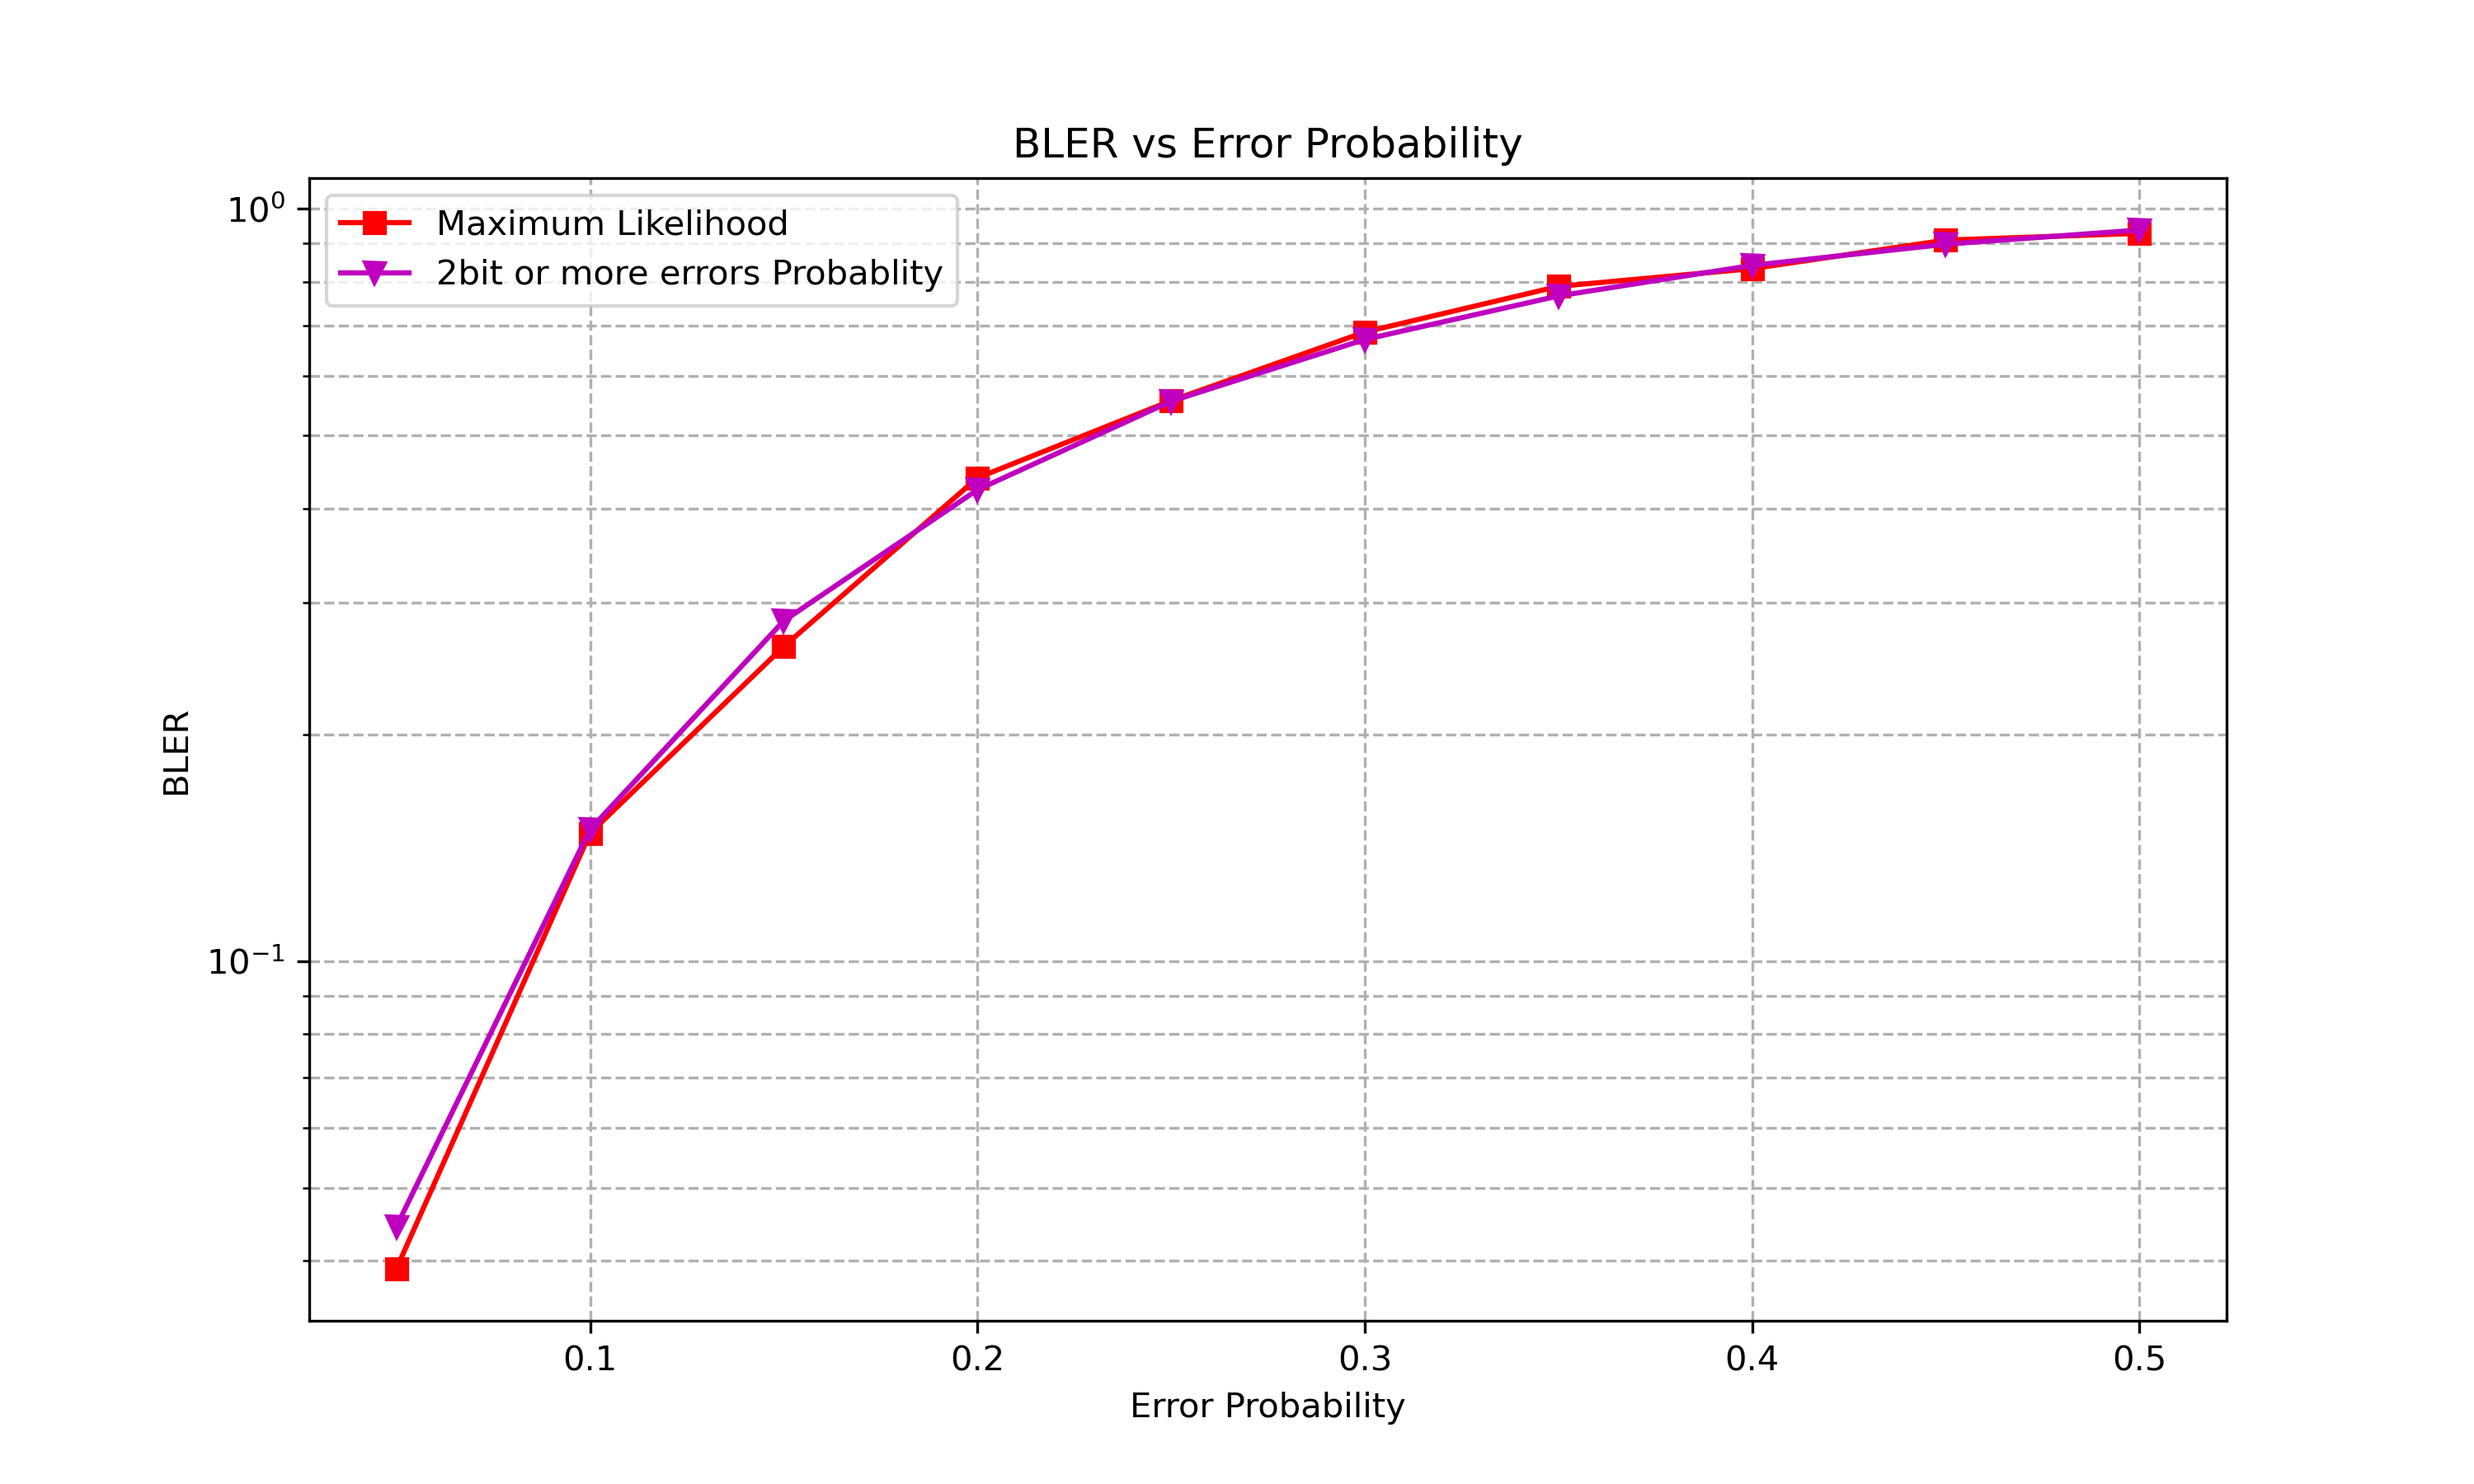
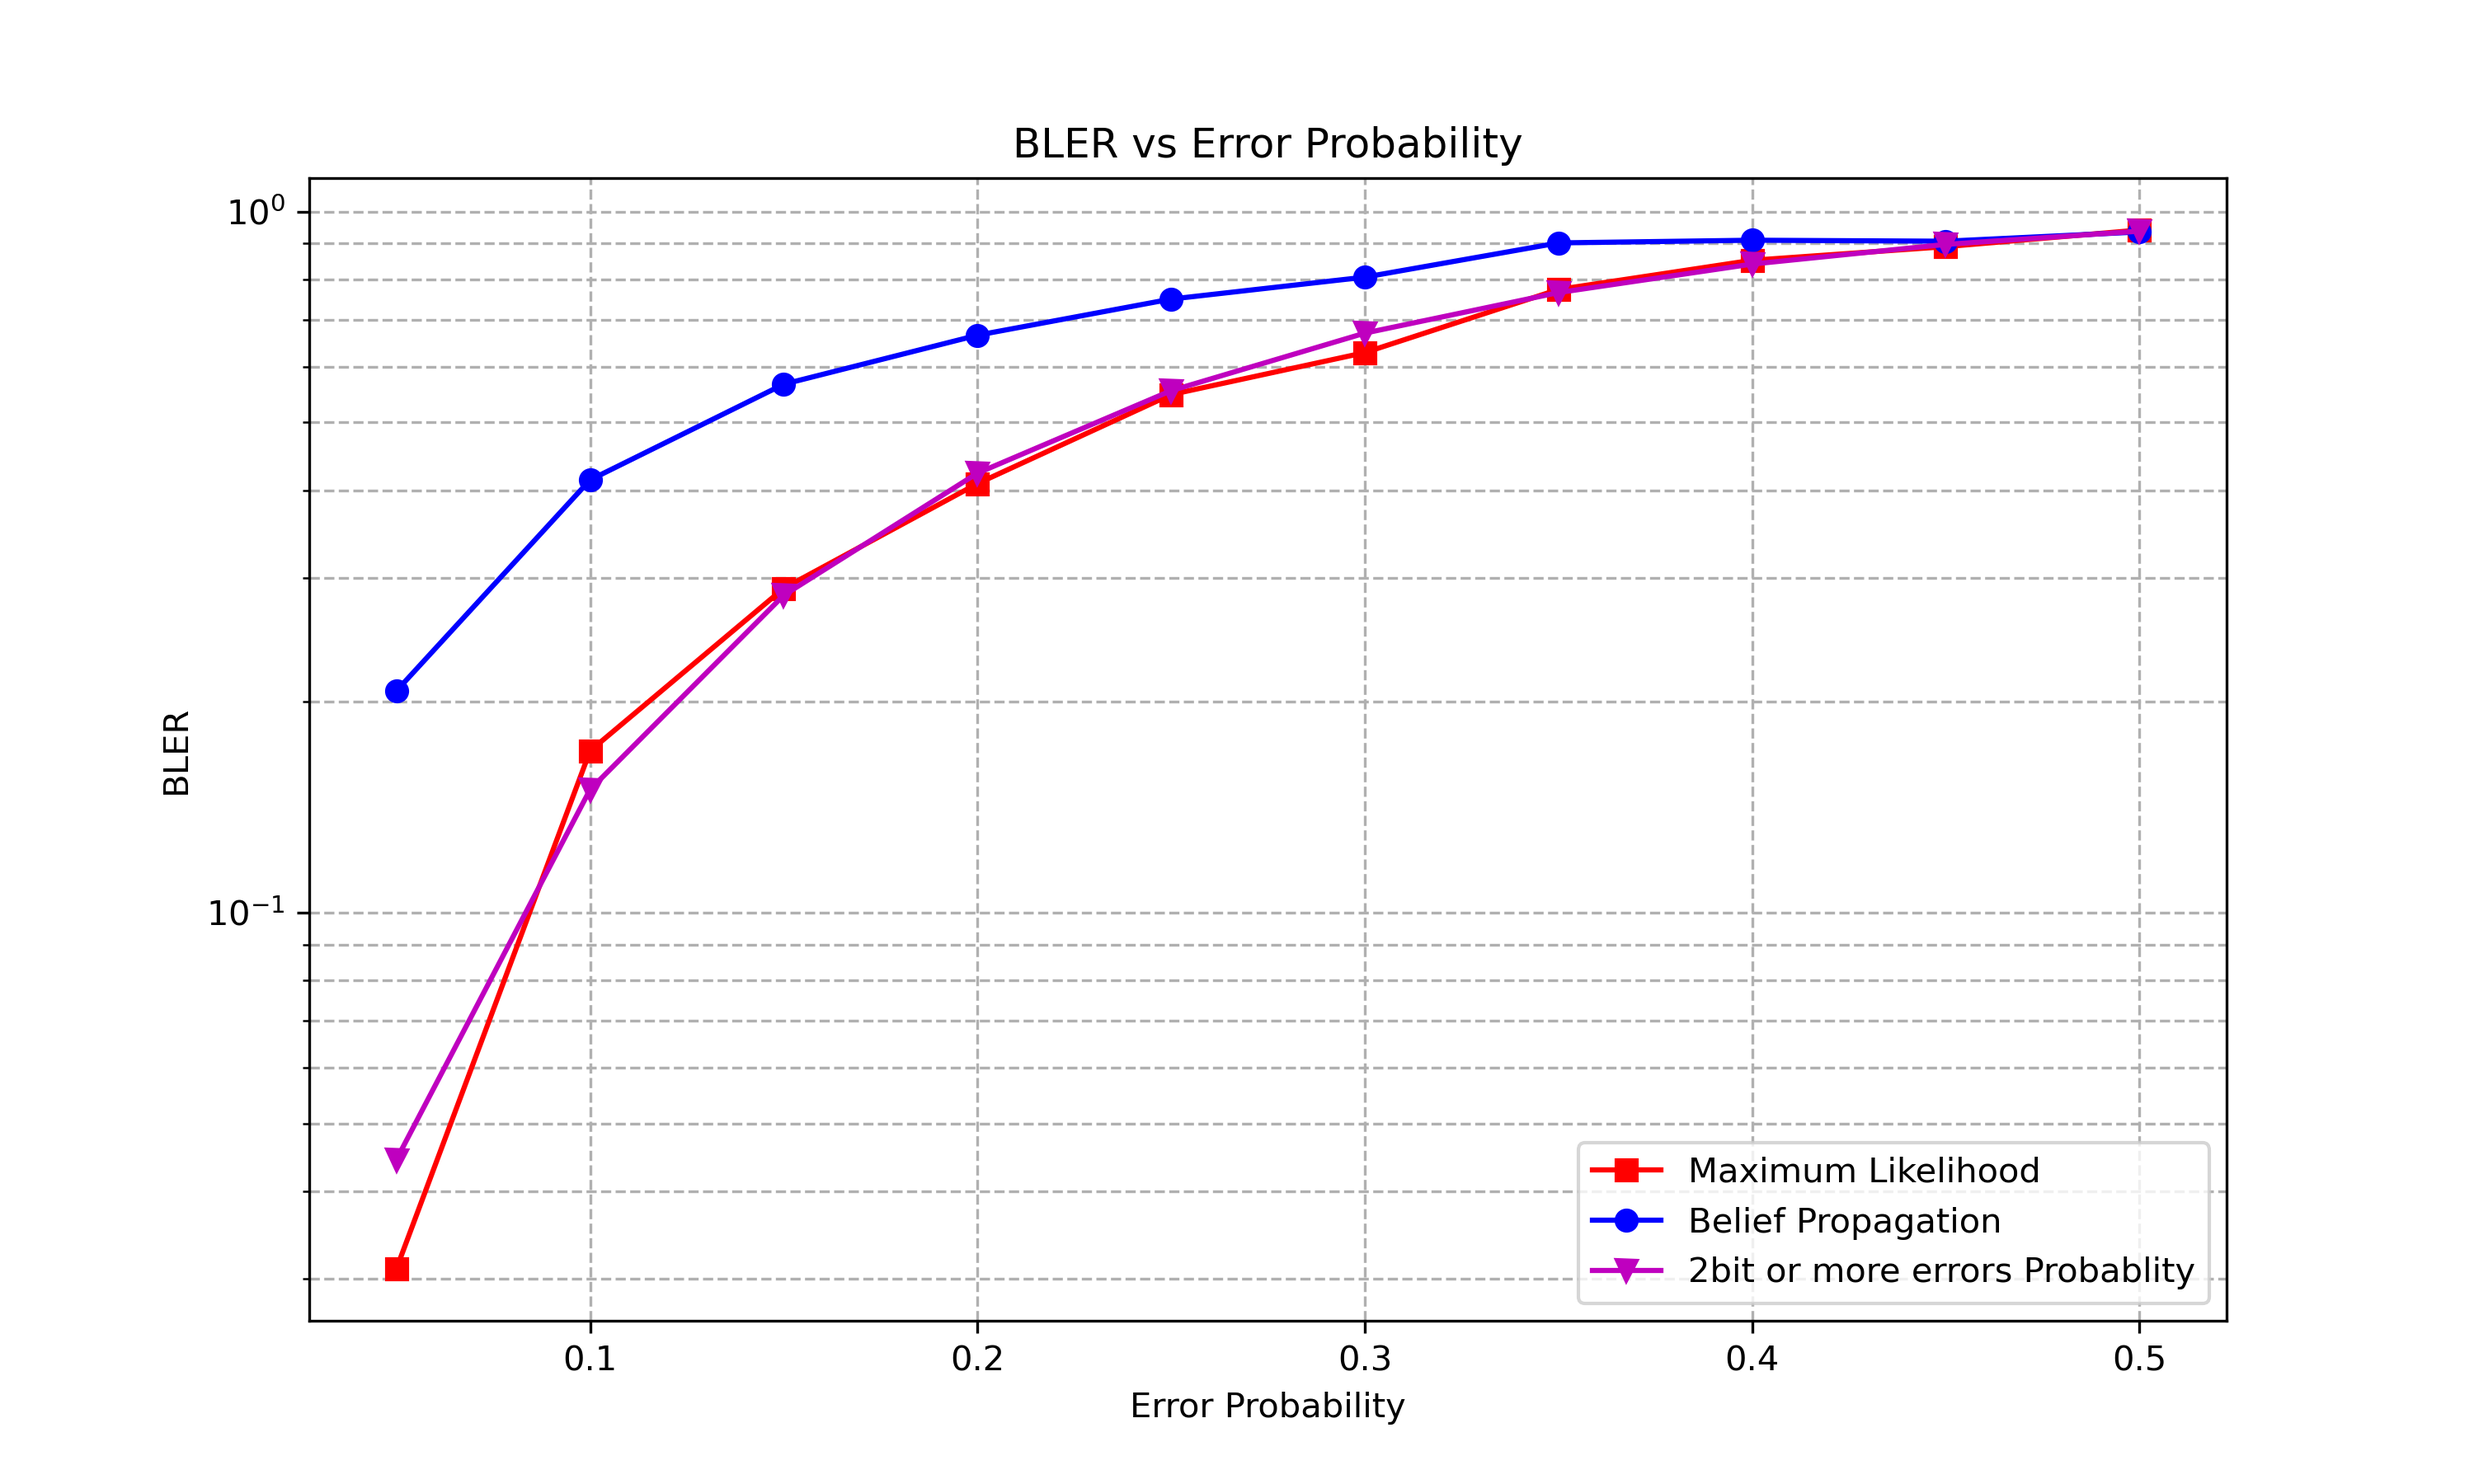
BP updated

diff --git a/main_ML_BP.py b/main_ML_BP.py
@@ -27,38 +27,91 @@ def encode_hamming(message):
 def bsc(channel_input, error_prob):
     return (channel_input + np.random.binomial(1, error_prob, size=channel_input.shape)) % 2
 
+def calculate_probability_one(selected_values):
+    # Perform the calculations as per the formula
+    # 100 010 001 111 #1
+    result = sum(
+        [np.prod([selected_values[0], 1 - selected_values[1], 1 - selected_values[2]]) * np.prod(selected_values),
+         np.prod([1 - selected_values[0], selected_values[1], 1 - selected_values[2]]) * np.prod(selected_values),
+         np.prod([1 - selected_values[0], 1 - selected_values[1], selected_values[2]]) * np.prod(selected_values),
+         np.prod([selected_values[0], selected_values[1], selected_values[2]]) * np.prod(selected_values)])
+
+    return result
+
+def calculate_probability_zero(selected_values):
+    # Perform the calculations as per the formula
+    # 110 101 011 000 #0
+    result = sum([np.prod([selected_values[0], selected_values[1], 1 - selected_values[2]]) * np.prod(selected_values),
+         np.prod([selected_values[0], 1 - selected_values[1], selected_values[2]]) * np.prod(selected_values),
+         np.prod([1 - selected_values[0], selected_values[1], selected_values[2]]) * np.prod(selected_values),
+         np.prod([1 - selected_values[0], 1 - selected_values[1], 1 - selected_values[2]]) * np.prod(selected_values)]
+        )
+    return result
+
 # Placeholder function to decode using Belief Propagation
-def belief_propagation(channel_output, max_iterations=10):
+def belief_propagation(channel_output, error_prob, max_iterations=10):
     message
     encoded_message
     channel_output
     num_checks, num_bits = H.shape
-    Lr = np.zeros((num_checks, num_bits))
-    Lq = np.zeros((num_checks, num_bits))
+    decoded_bit =[]
+    channel_output_probabilities = np.where(channel_output == 1, 0.95, 0.05) #1일 확률
+    mu = np.log(channel_output_probabilities/(1-channel_output_probabilities))
+    H * mu
 
-    for i in range(num_checks):
-        for j in range(num_bits):
-            if H[i, j] == 1:
-                Lq[i, j] = 2 * (channel_output[j] - 0.5)
 
-    for _ in range(max_iterations):
-        for i in range(num_checks):
-            for j in range(num_bits):
-                if H[i, j] == 1:
-                    Lq_no_j = np.delete(Lq[i, :], j)
-                    Lr[i, j] = np.prod(np.tanh(Lq_no_j / 2))
+    selected_values = channel_output_probabilities[[1,3,4]]
+    a1 = calculate_probability_one(selected_values)
+    b1  = calculate_probability_zero(selected_values)
 
-        for i in range(num_checks):
-            for j in range(num_bits):
-                if H[i, j] == 1:
-                    Lq[i, j] = 2 * (channel_output[j] - 0.5) + np.sum(Lr[:, j]) - Lr[i, j]
+    selected_values = channel_output_probabilities[[2, 3, 5]]
+    a2 = calculate_probability_one(selected_values)
+    # 110 101 011 000 #0
+    b2 = calculate_probability_zero(selected_values)
+    if a1+a2 > b1+b2:
+        decoded_bit.append(1)
+    else:
+        decoded_bit.append(0)
 
-    L_final = 2 * (channel_output - 0.5) + np.sum(Lr, axis=0)
-    decoded_codeword = (L_final >= 0).astype(int)
+    selected_values = channel_output_probabilities[[0, 3, 4]]
+    a1 = calculate_probability_one(selected_values)
+    b1 = calculate_probability_zero(selected_values)
 
-    # Extract original 4-bit message from decoded 7-bit codeword
-    decoded_message = decoded_codeword[:k]
-    return decoded_message
+    selected_values = channel_output_probabilities[[2, 3, 6]]
+    a2 = calculate_probability_one(selected_values)
+    # 110 101 011 000 #0
+    b2 = calculate_probability_zero(selected_values)
+    if a1 + a2 > b1 + b2:
+        decoded_bit.append(1)
+    else:
+        decoded_bit.append(0)
+
+    selected_values = channel_output_probabilities[[0, 3, 5]]
+    a1 = calculate_probability_one(selected_values)
+    b1 = calculate_probability_zero(selected_values)
+
+    selected_values = channel_output_probabilities[[1, 3, 6]]
+    a2 = calculate_probability_one(selected_values)
+    # 110 101 011 000 #0
+    b2 = calculate_probability_zero(selected_values)
+    if a1 + a2 > b1 + b2:
+        decoded_bit.append(1)
+    else:
+        decoded_bit.append(0)
+
+    selected_values = channel_output_probabilities[[0, 1, 4]]
+    a1 = calculate_probability_one(selected_values)
+    b1 = calculate_probability_zero(selected_values)
+
+    selected_values = channel_output_probabilities[[0, 2, 5]]
+    a2 = calculate_probability_one(selected_values)
+    # 110 101 011 000 #0
+    b2 = calculate_probability_zero(selected_values)
+    if a1 + a2 > b1 + b2:
+        decoded_bit.append(1)
+    else:
+        decoded_bit.append(0)
+    return decoded_bit
 # Placeholder function to decode using Maximum Likelihood
 def ml_decoding(received):
     num_codewords = 2**k
@@ -109,10 +162,11 @@ BLER_BP_list = []
 BLER_ML_list = []
 error_prob_list = np.linspace(0.05, 0.5, num=10)
 # Number of transmissions
-num_transmissions = 1000
+num_transmissions = 10000
 
 for error_prob in error_prob_list:
     E_num_ML = 0
+    E_num_BP = 0
     for _ in range(num_transmissions):
         # Generate random 4-bit message
         message = np.random.randint(0, 2, size=k)
@@ -123,18 +177,21 @@ for error_prob in error_prob_list:
         received_bsc = bsc(encoded_message, error_prob)
 
         # Decode messages
-        decoded_BP = belief_propagation(received_bsc)
+        decoded_BP = belief_propagation(received_bsc,error_prob)
         decoded_ML = syndrome_decoding(received_bsc)
-
-
         # Calculate BLER
         #BLER_BP = calculate_ber(message, decoded_BP)
+        if not np.array_equal(message, decoded_BP):
+            E_num_BP += 1
         if not np.array_equal(message, decoded_ML):
             E_num_ML += 1
+
     #average_ber_bp = np.mean(ber_BP_list)
+    average_BLER_BP = E_num_BP/num_transmissions
     average_BLER_ML = E_num_ML/num_transmissions
 
     #average_ber_BP_list.append(average_ber_bp)
+    BLER_BP_list.append(average_BLER_BP)
     BLER_ML_list.append(average_BLER_ML)
 
 prob_error_one_or_less = [(1-(binomial_probability(7, 0, p) + binomial_probability(7, 1, p))) for p in error_prob_list]
@@ -142,10 +199,11 @@ prob_error_one_or_less = [(1-(binomial_probability(7, 0, p) + binomial_probabili
 plt.figure(figsize=(10, 6))
 
 # Plotting BLER for Belief Propagation
-# plt.plot(error_prob_list, average_ber_BP_list, marker='o', linestyle='-', color='b', label='Belief Propagation')
+
 
 # Plotting BLER for Maximum Likelihood
 plt.plot(error_prob_list, BLER_ML_list, marker='s', linestyle='-', color='r', label='Maximum Likelihood')
+plt.plot(error_prob_list, BLER_BP_list, marker='o', linestyle='-', color='b', label='Belief Propagation')
 plt.plot(error_prob_list, prob_error_one_or_less, marker='v', linestyle='-', color='m',
          label='2bit or more errors Probablity')
 plt.yscale('log')
